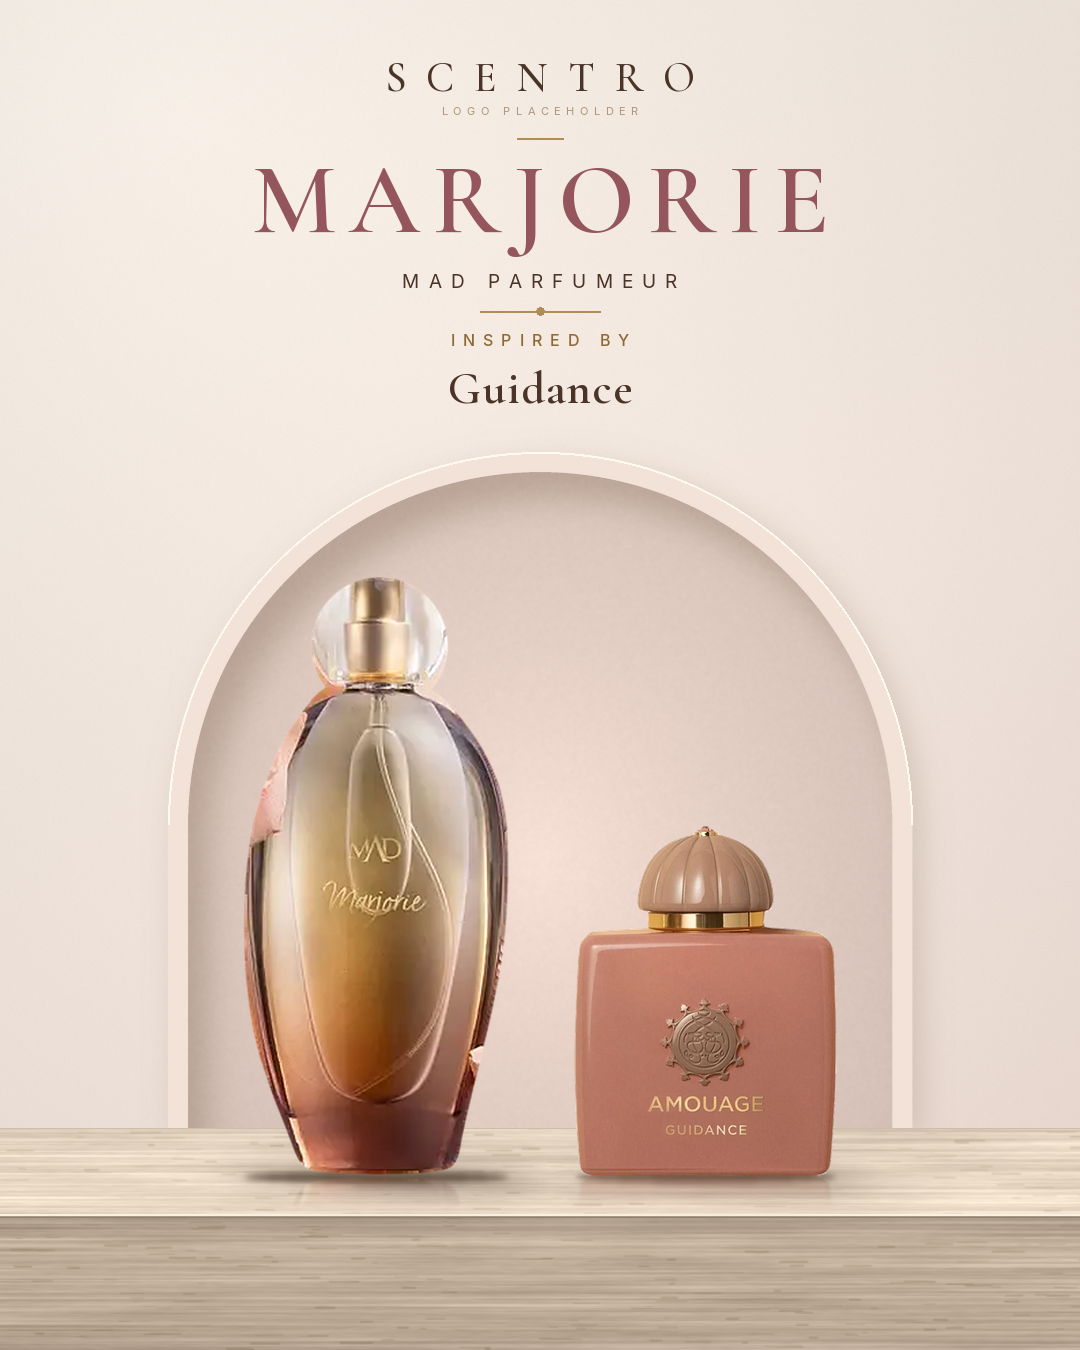
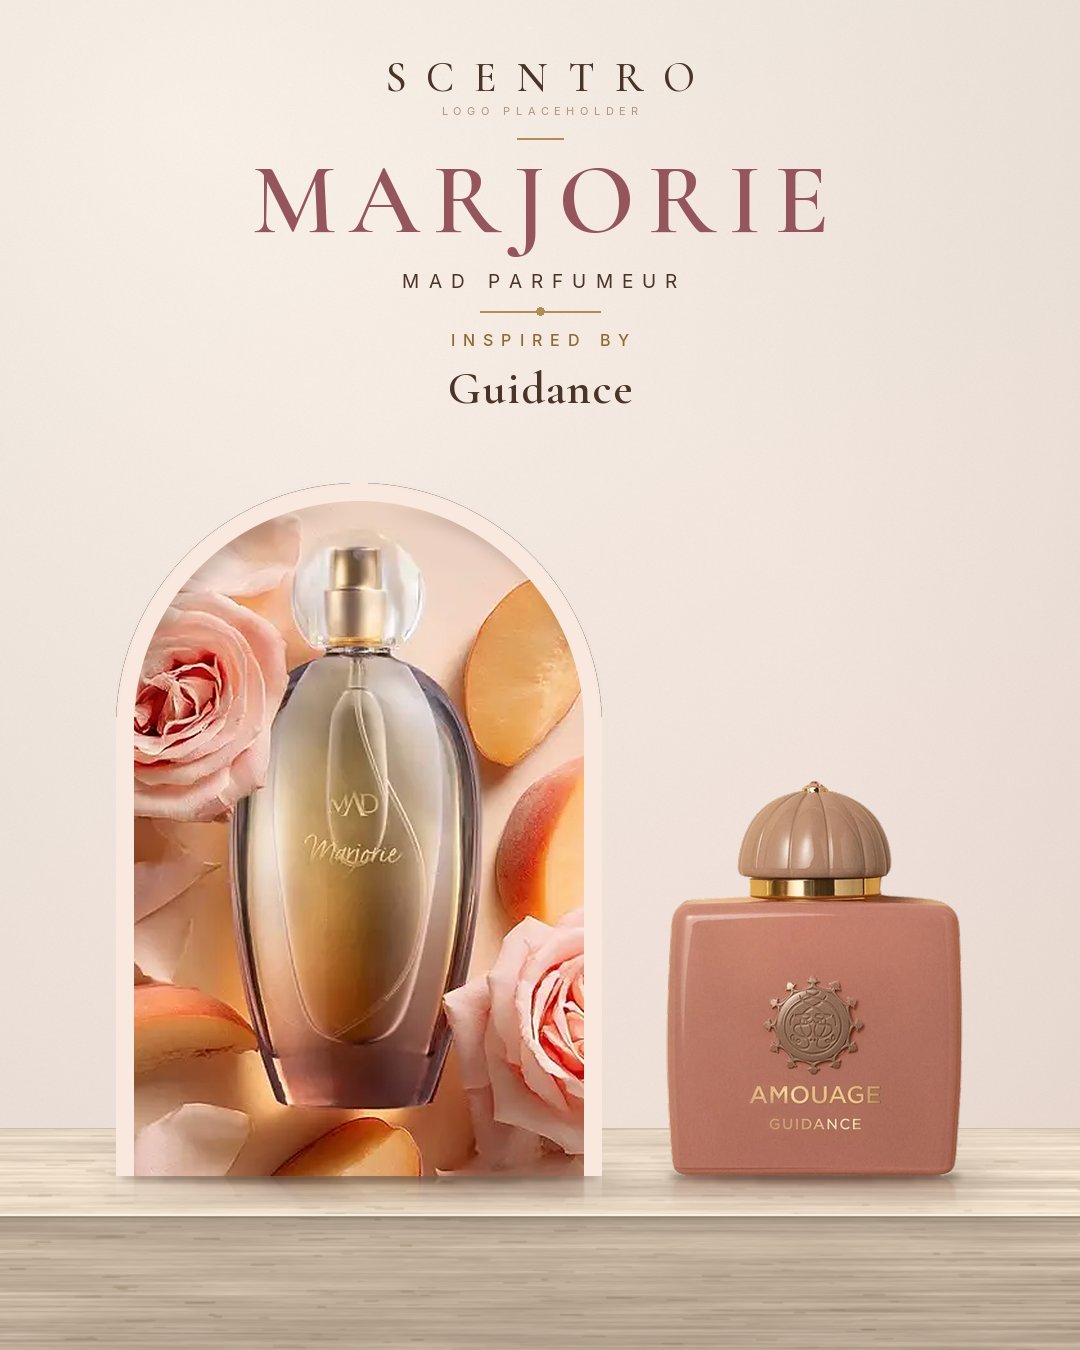
Marjorie slide: framed original photo instead of cutting out transparent glass
Claude-Session: https://claude.ai/code/session_01UApyk7Kdwc7MEVpfJtnJsr

diff --git a/scentro/build_slide.py b/scentro/build_slide.py
@@ -18,16 +18,17 @@ BASE_Y = 1176                                   # bottles stand mid-way on the s
 GAP = 64
 
 
-def S(title, mad, orig, inspired, title_rgb, bg_a, bg_b, niche_rgb, mad_h=640, orig_h=470, name_size=46, stone=(0, 0, 0)):
+def S(title, mad, orig, inspired, title_rgb, bg_a, bg_b, niche_rgb, mad_h=640, orig_h=470, name_size=46, stone=(0, 0, 0), photo=None):
     return dict(title=title, mad=f'assets/cutouts/{mad}.png', orig=f'assets/cutouts/{orig}.png', inspired=inspired,
                 title_rgb=title_rgb, bg_a=bg_a, bg_b=bg_b, niche_rgb=niche_rgb, mad_h=mad_h, orig_h=orig_h,
-                name_size=name_size, stone=stone, out=f'output/slide{{n}}_{title.lower()}.png')
+                name_size=name_size, stone=stone, photo=photo, out=f'output/slide{{n}}_{title.lower()}.png')
 
 
 SLIDES = {
     1: S('ROUGE', 'mad_rouge', 'brx540_extrait', 'Baccarat Rouge 540 Extrait de Parfum', (122, 20, 38), (245, 237, 224), (231, 217, 197), (226, 209, 187), mad_h=610, orig_h=440, name_size=40),
     2: S('TREASURE', 'mad_treasure', 'naxos', 'Naxos', (142, 98, 34), (246, 238, 220), (233, 215, 186), (229, 208, 176), mad_h=600, orig_h=470, stone=(4, 0, -6)),
-    3: S('MARJORIE', 'mad_marjorie', 'guidance', 'Guidance', (148, 86, 92), (247, 240, 231), (237, 221, 213), (230, 208, 198), mad_h=600, orig_h=350, stone=(2, -2, -2)),
+    3: S('MARJORIE', 'mad_marjorie', 'guidance', 'Guidance', (148, 86, 92), (247, 240, 231), (237, 221, 213), (230, 208, 198), mad_h=600, orig_h=395, stone=(2, -2, -2),
+          photo=dict(src='assets/source/mad_marjorie_original.webp', crop=(245, 105, 595, 630), size=(450, 675))),
     4: S('EFFECT', 'mad_effect', 'side_effect', 'Side Effect', (104, 30, 38), (244, 235, 222), (229, 212, 194), (224, 202, 182), mad_h=610, orig_h=450),
     5: S('DREAMLIGHT', 'mad_dreamlight', 'attrape_reves', 'Attrape-Rêves', (126, 88, 130), (248, 242, 240), (236, 225, 232), (230, 214, 222), mad_h=560, orig_h=450, stone=(0, -2, 3)),
     6: S('FORZA', 'mad_forza', 'alexandria_ii', 'Alexandria II', (106, 74, 42), (245, 237, 223), (230, 215, 191), (226, 207, 178), mad_h=500, orig_h=470, stone=(2, 0, -3)),
@@ -225,12 +226,38 @@ def stage_bottle(img, b, cx, base_y):
     img.alpha_composite(b, (x, y))
 
 
+def photo_panel(s):
+    """Marjorie: the original lifestyle photo (bottle intact with its roses/peaches) in a standing arch-shaped stone frame."""
+    p = s['photo']; w, h = p['size']; fr = 18
+    ph = Image.open(p['src']).convert('RGB').crop(p['crop'])
+    ph = ph.resize((w, h), Image.LANCZOS).filter(ImageFilter.UnsharpMask(1.2, 45, 2))
+    ss = 3
+    def arch_m(wm, hm):
+        m = Image.new('L', (wm * ss, hm * ss), 0); d = ImageDraw.Draw(m)
+        d.ellipse((0, 0, wm * ss - 1, wm * ss - 1), fill=255); d.rectangle((0, wm * ss // 2, wm * ss - 1, hm * ss - 1), fill=255)
+        return m.resize((wm, hm), Image.LANCZOS)
+    W2, H2 = w + 2 * fr, h + fr
+    panel = Image.new('RGBA', (W2, H2), (0, 0, 0, 0))
+    frame_col = tuple(int(v) for v in np.clip(np.array(s['bg_b'], np.float32) + np.array([12, 11, 9]), 0, 255))
+    panel.paste(Image.new('RGBA', (W2, H2), frame_col + (255,)), (0, 0), arch_m(W2, H2))
+    inner = Image.new('RGBA', (w, h)); inner.paste(ph.convert('RGBA'), (0, 0))
+    m_in = arch_m(w, h)
+    # subtle inner shade so the photo sits inside the frame
+    sh = np.roll(np.roll(arr(m_in) / 255, 10, 0), 8, 1); sh = ndi.gaussian_filter(sh, 8)
+    ins = np.clip(arr(m_in) / 255 - sh, 0, 1)[..., None] * 0.28
+    a = arr(inner)[..., :3] * (1 - ins) + np.array([100, 80, 60], np.float32) * ins
+    inner = Image.fromarray(np.clip(a, 0, 255).astype(np.uint8)).convert('RGBA'); inner.putalpha(m_in)
+    panel.alpha_composite(inner, (fr, fr))
+    return panel
+
+
 # ---- build -----------------------------------------------------------------------------------------
 def build(n):
     s = SLIDES[n]
     s['out'] = s['out'].format(n=n)
     img = background(s)
-    niche(img, s)
+    if not s['photo']:
+        niche(img, s)
     travertine(img, s)
 
     d = ImageDraw.Draw(img)
@@ -250,7 +277,7 @@ def build(n):
     tracked(d, 540, 388, s['inspired'], nf, brown, 1.5)
 
     # bottles: MAD hero on the left, original on the right, shared baseline, group centred on the arch
-    b1 = load_clean(s['mad'], s['mad_h'])
+    b1 = photo_panel(s) if s['photo'] else load_clean(s['mad'], s['mad_h'])
     b2 = load_clean(s['orig'], s['orig_h'])
     left = ARCH_CX - (b1.width + GAP + b2.width) / 2
     stage_bottle(img, b1, left + b1.width / 2, BASE_Y)
